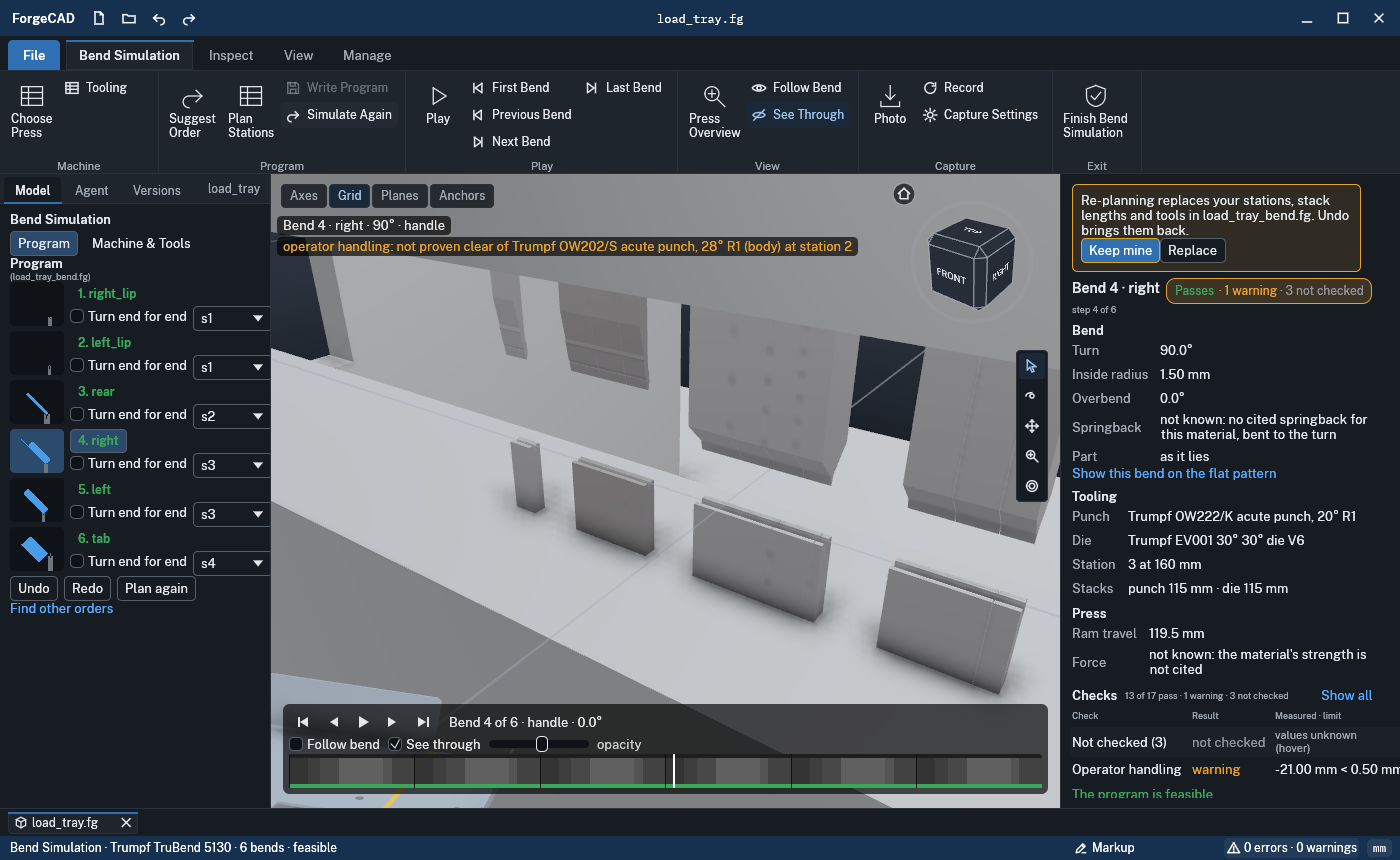
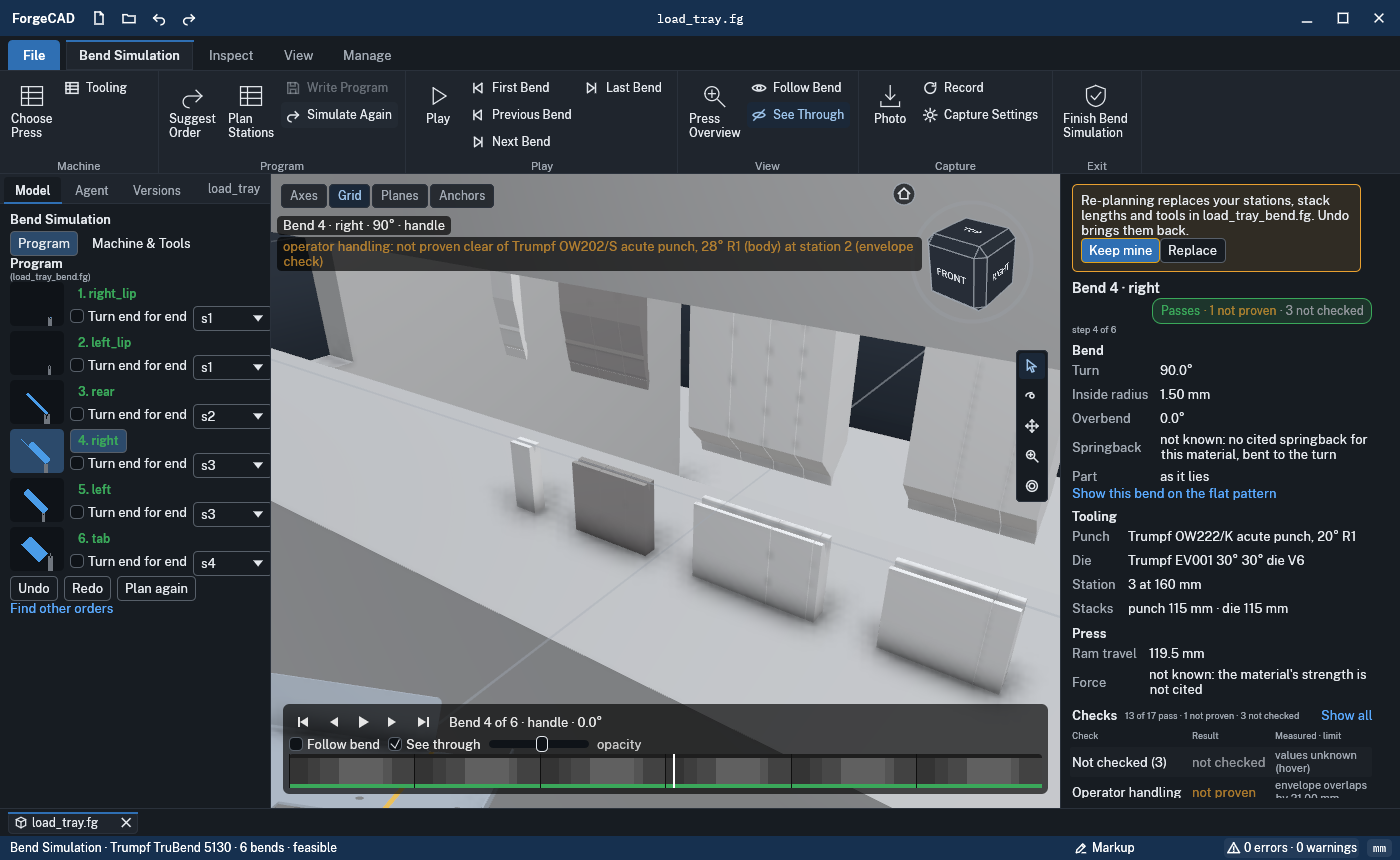
bendsim: an envelope overlap reads "not proven", counted apart from warnings; idle stations recede
UX-LEAD, on BENDSIM-TOOLS' undecided handling (591f20fe): the Checks row's result is "not
proven" in the near's muted amber, its measure "envelope overlaps by 21.01 mm" (muted, never a
negative clearance), the method on hover; counted "1 not proven" apart from the warnings, the
badge's outline not amber for it; the caption "operator handling: not proven clear of <tool>
(envelope check)". The badge moves under the title when the two do not fit side by side.
The other stations' tools set back further (toward 0.85 grey by 0.8, sheen 0.1): they recede,
solid. Merged bendsim/tools @555dcfc7 (the gap report without patent content, the handling
verdict, the clippy fix, main ded2d224, hidden inputs, the planner, replan, contacts).

Test: an_envelope_overlap_is_not_proven_not_a_warning. Shots re-taken.

Claude-Session: https://claude.ai/code/session_01WJtawvw7eU93rVnY2Eejbc

diff --git a/interface/forge-render/src/shell/bendsim.rs b/interface/forge-render/src/shell/bendsim.rs
@@ -1463,10 +1463,21 @@ fn prop(ui: &mut egui::Ui, t: &Theme, label: &str, value: String, key: Option<&s
 /// Returns the bend's name when its "flat pattern" link is clicked.
 /// A step's checks that are not passes, counted by kind, worst first, each in its colour: "1 fail",
 /// "2 warnings", "1 not checked", "1 near" (UX-LEAD: nothing that is not a pass goes uncounted).
+/// A check whose envelope (the part's boxes through the operator's move, against the press
+/// bodies' boxes) overlaps: not proven clear, not a measured collision (BENDSIM-TOOLS' undecided
+/// handling; UX-LEAD: counted apart from the warnings, never printed as a negative clearance).
+pub fn not_proven(c: &fb::Check) -> bool {
+    !c.pass && c.undecided && c.severity == fb::Severity::Warning && c.unchecked.is_none() && c.near.is_none()
+}
+
+/// What an envelope check is, on hover.
+pub const ENVELOPE_METHOD: &str = "Checked with the part's bounding boxes through the operator's move, against the press's bodies: a pass is proven; this overlap is of those boxes, not a measured collision.";
+
 fn tally(checks: &[fb::Check]) -> Vec<(String, egui::Color32)> {
     let n = |f: &dyn Fn(&fb::Check) -> bool| checks.iter().filter(|c| !c.pass && f(c)).count();
     let fail = n(&|c| c.severity == fb::Severity::Error);
-    let warn = n(&|c| c.severity == fb::Severity::Warning && c.unchecked.is_none() && c.near.is_none());
+    let warn = n(&|c| c.severity == fb::Severity::Warning && c.unchecked.is_none() && c.near.is_none() && !not_proven(c));
+    let unproven = n(&not_proven);
     let unchecked = n(&|c| c.unchecked.is_some());
     let near = n(&|c| c.near.is_some());
     let plural = |k: usize, w: &str| {
@@ -1487,6 +1498,7 @@ fn tally(checks: &[fb::Check]) -> Vec<(String, egui::Color32)> {
             look::FAIL,
         ),
         (warn, plural(warn, "warning"), look::WARN),
+        (unproven, format!("{unproven} not proven"), look::NEAR),
         (unchecked, format!("{unchecked} not checked"), look::MUTED),
         (near, format!("{near} near"), look::NEAR),
     ]
@@ -1561,19 +1573,35 @@ pub fn bend_sheet(ui: &mut egui::Ui, t: &Theme, st: &mut BendSimUi) -> Option<St
     let cat = st.catalog.as_ref().and_then(|c| c.as_ref().ok());
     if let Some(s) = plan.steps.get(st.step) {
         let ok = s.pass();
-        ui.horizontal(|ui| {
-            ui.label(
-                egui::RichText::new(format!("Bend {} · {}", st.step + 1, names[s.bend]))
-                    .font(super::theme::semi(14.0))
-                    .color(t.ink),
-            );
-            ui.with_layout(egui::Layout::right_to_left(egui::Align::Center), |ui| {
+        let title = format!("Bend {} · {}", st.step + 1, names[s.bend]);
+        // the badge beside the title when both fit, else on its own row under it (its words
+        // never run over the title)
+        let fits = {
+            let p = ui.painter();
+            let words: Vec<String> = tally(&s.checks).into_iter().map(|x| x.0).collect();
+            let badge = p
+                .layout_no_wrap(
+                    format!("Passes · {}", words.join(" · ")),
+                    egui::FontId::proportional(12.0),
+                    t.ink,
+                )
+                .size()
+                .x
+                + 24.0;
+            let head = p
+                .layout_no_wrap(title.clone(), super::theme::semi(14.0), t.ink)
+                .size()
+                .x;
+            head + badge + 12.0 <= ui.available_width()
+        };
+        let badge = |ui: &mut egui::Ui| {
                 // the outline amber once anything warns (UX-LEAD); a pass's green otherwise
                 let warns = s.checks.iter().any(|c| {
                     !c.pass
                         && c.severity == fb::Severity::Warning
                         && c.unchecked.is_none()
                         && c.near.is_none()
+                        && !not_proven(c)
                 });
                 let c = if !ok {
                     look::FAIL
@@ -1604,8 +1632,16 @@ pub fn bend_sheet(ui: &mut egui::Ui, t: &Theme, st: &mut BendSimUi) -> Option<St
                             );
                         });
                     });
-            });
+        };
+        ui.horizontal(|ui| {
+            ui.label(egui::RichText::new(&title).font(super::theme::semi(14.0)).color(t.ink));
+            if fits {
+                ui.with_layout(egui::Layout::right_to_left(egui::Align::Center), badge);
+            }
         });
+        if !fits {
+            ui.horizontal(|ui| ui.with_layout(egui::Layout::right_to_left(egui::Align::Center), badge));
+        }
         ui.label(
             egui::RichText::new(format!("step {} of {}", st.step + 1, plan.steps.len()))
                 .small()
@@ -1740,7 +1776,7 @@ pub fn bend_sheet(ui: &mut egui::Ui, t: &Theme, st: &mut BendSimUi) -> Option<St
         let rank = |c: &fb::Check| {
             if c.pass {
                 3
-            } else if c.near.is_some() {
+            } else if c.near.is_some() || not_proven(c) {
                 2
             } else if c.severity == fb::Severity::Warning || c.unchecked.is_some() {
                 1
@@ -1851,6 +1887,8 @@ pub fn bend_sheet(ui: &mut egui::Ui, t: &Theme, st: &mut BendSimUi) -> Option<St
                         // proven within the resolution of the limit, not at it (David): a word, in
                         // a muted amber, weaker than a warning (UX-LEAD)
                         (look::NEAR, "near")
+                    } else if not_proven(c) {
+                        (look::NEAR, "not proven")
                     } else if c.severity == fb::Severity::Warning {
                         (look::WARN, "warning")
                     } else if c.undecided {
@@ -1867,6 +1905,11 @@ pub fn bend_sheet(ui: &mut egui::Ui, t: &Theme, st: &mut BendSimUi) -> Option<St
                             len_down(c.value),
                             len(c.limit),
                             len(c.near.unwrap_or(0.0))
+                        ),
+                        (None, Some(x)) if not_proven(c) => format!(
+                            "{ENVELOPE_METHOD}\nThe envelopes overlap by {} against {}.",
+                            len((-c.value).max(0.0)),
+                            cards::body_words(cat, x)
                         ),
                         (None, Some(x)) => format!("against {}", cards::body_words(cat, x)),
                         _ => String::new(),
@@ -1910,6 +1953,22 @@ pub fn bend_sheet(ui: &mut egui::Ui, t: &Theme, st: &mut BendSimUi) -> Option<St
                                         .color(t.ink2),
                                 )
                                 .wrap(),
+                            );
+                        }
+                        // an envelope's overlap, not a clearance: said so, muted; the method on hover
+                        None if not_proven(c) => {
+                            hover(
+                                ui.add(
+                                    egui::Label::new(
+                                        egui::RichText::new(format!(
+                                            "envelope overlaps by {}",
+                                            len((-c.value).max(0.0))
+                                        ))
+                                        .font(super::theme::caption())
+                                        .color(t.ink2),
+                                    )
+                                    .wrap(),
+                                ),
                             );
                         }
                         // only a lower bound is known (near, undecided): what was proven, the limit
@@ -2297,12 +2356,13 @@ pub fn overlay(ui: &egui::Ui, rect: egui::Rect, st: &mut BendSimUi) {
                 ),
                 Some(c) => (
                     format!(
-                        "operator handling: not proven clear{}",
+                        "operator handling: not proven clear{}{}",
                         c.tool
                             .as_deref()
-                            .map_or(String::new(), |t| format!(" of {}", cards::body_words(cat, t)))
+                            .map_or(String::new(), |t| format!(" of {}", cards::body_words(cat, t))),
+                        if not_proven(c) { " (envelope check)" } else { "" }
                     ),
-                    look::WARN,
+                    if not_proven(c) { look::NEAR } else { look::WARN },
                 ),
                 None => ("operator handling: the first step, none".into(), look::MUTED),
             });
@@ -2344,6 +2404,23 @@ pub const OVERLAY_CUBE_ROOM: f32 = 130.0;
 #[cfg(test)]
 mod tests {
     use super::*;
+
+    /// An envelope overlap of the handling check is counted as not proven, never as a warning
+    /// (UX-LEAD): "1 not proven", the badge outline not amber for it.
+    #[test]
+    fn an_envelope_overlap_is_not_proven_not_a_warning() {
+        let mut c = fb::Check::rule(fb::Rule::Handling, -21.0, 0.5, false);
+        c.severity = fb::Severity::Warning;
+        c.undecided = true;
+        assert!(not_proven(&c));
+        let words: Vec<String> = tally(std::slice::from_ref(&c)).into_iter().map(|x| x.0).collect();
+        assert_eq!(words, ["1 not proven"]);
+        // a warning that is not an envelope stays a warning
+        c.undecided = false;
+        assert!(!not_proven(&c));
+        let words: Vec<String> = tally(&[c]).into_iter().map(|x| x.0).collect();
+        assert_eq!(words, ["1 warning"]);
+    }
 
     const L: &str = "shared t = 2\nshared r = 2\nshared k = ratio(0.4)\n\
         sketch plan(on: xy) {\n  outline = rect(corner: (0, 0), size: (120, 60))\n}\n\

diff --git a/interface/forge-render/src/gui_bendsim.rs b/interface/forge-render/src/gui_bendsim.rs
@@ -226,9 +226,9 @@ pub fn tint(b: &Body, material: Option<&str>) -> [f32; 4] {
 
 /// How far the other stations' tools are set back toward a light neutral, that neutral, and what
 /// of their metal's sheen they keep.
-pub const STATION_DIM: f32 = 0.55;
-pub const STATION_DIM_TO: f32 = 0.8;
-pub const STATION_DIM_METAL: f32 = 0.3;
+pub const STATION_DIM: f32 = 0.8;
+pub const STATION_DIM_TO: f32 = 0.85;
+pub const STATION_DIM_METAL: f32 = 0.1;
 
 fn own_tint(b: &Body, material: Option<&str>) -> [f32; 4] {
     let id = if b.hit {
